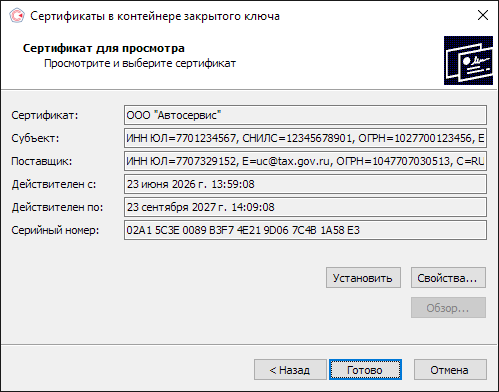
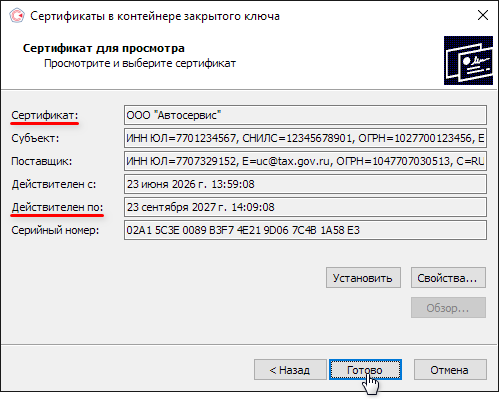
Совет «Не подписывается токен Честного знака (сертификат не найден в личном хранилище)» (Katya, черновик): скрины 04 и 05 с обводкой Кати; снят комментарий про обводку (Катя, 03.11.2026).

diff --git a/tips/5S AUTO/Маркировка/Не подписывается токен Честного знака (сертификат не найден в личном хранилище)/ne-podpisyvaetsya-token-chestnogo-znaka.md b/tips/5S AUTO/Маркировка/Не подписывается токен Честного знака (сертификат не найден в личном хранилище)/ne-podpisyvaetsya-token-chestnogo-znaka.md
@@ -40,10 +40,6 @@
 7. В программе в форме **«Обновление токена API Честный знак»** нажмите кнопку с шестеренкой, выберите сертификат и сохраните. В служебных сообщениях появится сообщение об успешном сохранении данных о сертификате.
 8. Нажмите **«Подписать локально»**. После сообщения **«Подписание токена прошло успешно»** на нижней панели формы обновится дата окончания действия токена.
 
-> 🛠 Комментарий для черновика: *Что обвести на скринах шагов:*
-> - *04 – поля «Сертификат» и «Действителен по» (организация и срок действия) и кнопку «Установить»;*
-> - *05 – кнопку «ОК».*
-
 > [!NOTE]
 > Сертификат устанавливается для конкретного пользователя Windows на конкретном компьютере. Если токен подписывают на нескольких рабочих местах, установите сертификат на каждом из них.
 
